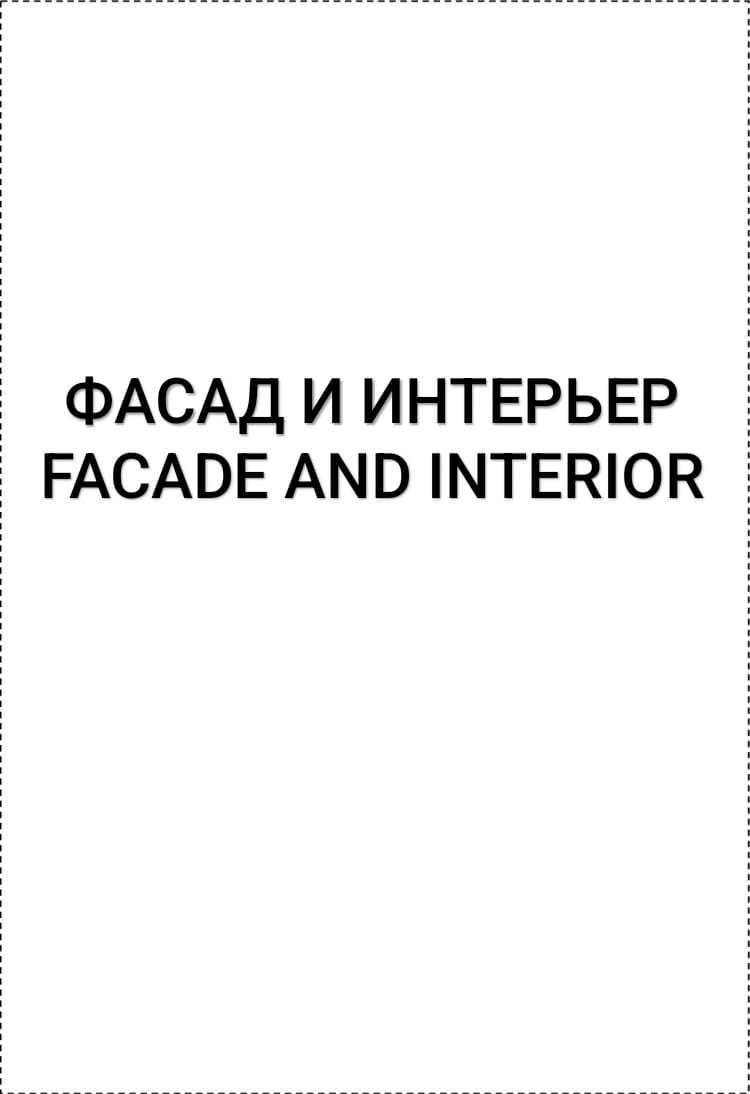
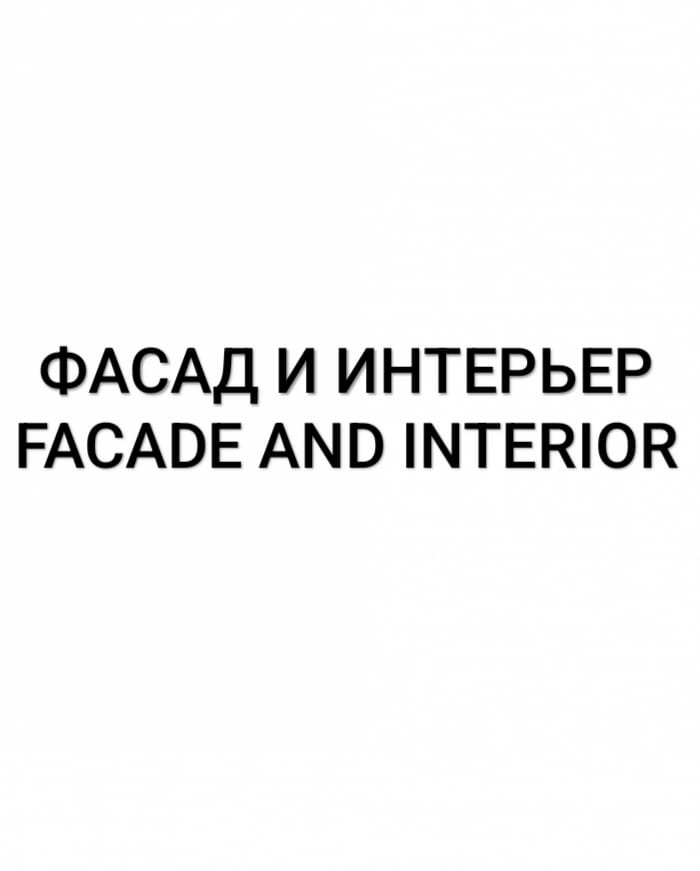
бновлена ссылка на Google Apps Script в contact.html

Changed region(s): [[0.0, 0.0, 1.0, 1.0], [0.0, 0.0, 0.03, 0.031]]

diff --git a/contact.html b/contact.html
@@ -611,7 +611,6 @@
                 <div class="map-card">
                     <h2>Интерактивная карта</h2>
                     <div class="map-container">
-                        <!-- КАРТА МИРА (Yandex Maps) -->
                         <iframe 
                             src="https://yandex.ru/map-widget/v1/?um=constructor%3A1f8a2b3c4d5e6f7g8h9i0j1k2l3m4n5o6p7q8r9s0t1u2v3w4x5y6z7a8b9c0d1e2f&amp;source=constructor"
                             allowfullscreen>
@@ -753,9 +752,10 @@
 
     <script src="cart.js"></script>
     <script>
-        const WEB_APP_URL = "https://script.google.com/macros/s/AKfycbxJqP4nBfVzwKeuvFUbsfq1nVCkcKjjM0-2B121R7vLsXpJHHiO9HOOhjdfLLmc7iuFzg/exec";
+        // Ваша ссылка на Google Apps Script (БЕЗ ПАРОЛЯ В КОДЕ!)
+        const WEB_APP_URL = "https://script.google.com/macros/s/AKfycbzdAiuPdXkKeJkeCyLcwVwMuzxSjef5zUtGgqytKxuF5xvhbiyqkxnUpQtgzxk0YkXf/exec";
 
-        // МАКСИМАЛЬНО РАСШИРЕННЫЙ АНТИМАТ ФИЛЬТР
+        // МАКСИМАЛЬНО РАСШИРЕННЫЙ АНТИМАТ ФИЛЬТР (оставляем без изменений)
         const badWords = [
             'шешен', 'шешең', 'шешенд', 'шешени', 'шешені', 'шеше', 'шешенник', 'шешенго',
             'қотақ', 'котак', 'қотақбас', 'котакбас', 'қотақбасы', 'құйғақ', 'міс', 'мис', 
@@ -848,6 +848,28 @@
             } catch (error) {
                 console.error("Ошибка загрузки отзывов:", error);
                 return [];
+            }
+        }
+
+        // --- Функция для проверки статуса администратора (без пароля в коде) ---
+        // Теперь мы не храним пароль в JS. Вместо этого мы отправляем запрос на бэкенд,
+        // который знает пароль и возвращает нам, является ли пользователь админом.
+        // Для простоты мы сохраняем флаг is_honey_admin после успешной проверки.
+        async function checkAdminStatus(password) {
+            try {
+                const response = await fetch(WEB_APP_URL, {
+                    method: 'POST',
+                    headers: { 'Content-Type': 'text/plain;charset=utf-8' },
+                    body: JSON.stringify({
+                        action: 'checkAdmin',
+                        password: password
+                    })
+                });
+                const result = await response.json();
+                return result.isAdmin === true;
+            } catch (e) {
+                console.error('Ошибка проверки админа:', e);
+                return false;
             }
         }
 
@@ -987,6 +1009,7 @@
 
                 const result = await response.json();
 
+                // --- Безопасная проверка на администратора (без пароля в коде) ---
                 if (result.status === 'admin_success') {
                     localStorage.setItem('is_honey_admin', 'true');
                     alert('Режим администратора успешно активирован на этом устройстве!');
@@ -1012,7 +1035,10 @@
 
         window.removeReview = async function(rowId, isAdminAction) {
             if (confirm('Вы уверены, что хотите удалить этот отзыв?')) {
-                const adminPass = isAdminAction ? 'honey123' : '';
+                // Для администратора мы используем специальный маркер (который равен паролю)
+                // Но мы его не храним в коде, а берем из localStorage, если пользователь админ.
+                const isAdmin = localStorage.getItem('is_honey_admin') === 'true';
+                const adminMarker = isAdmin ? 'honey123' : ''; // Маркер для бэкенда (совпадает с паролем)
                 const authorKey = localStorage.getItem('my_review_author') || '';
 
                 try {
@@ -1022,7 +1048,7 @@
                         body: JSON.stringify({
                             action: 'delete',
                             rowId: rowId,
-                            adminPass: adminPass,
+                            adminMarker: adminMarker,
                             authorKey: authorKey
                         })
                     });
@@ -1096,10 +1122,12 @@
             try {
                 let bodyData = {};
                 if (mode === 'reply') {
+                    const isAdmin = localStorage.getItem('is_honey_admin') === 'true';
+                    const adminMarker = isAdmin ? 'honey123' : '';
                     bodyData = {
                         action: 'adminReply',
                         rowId: rowId,
-                        adminPass: 'honey123',
+                        adminMarker: adminMarker,
                         replyText: textVal
                     };
                 } else {
